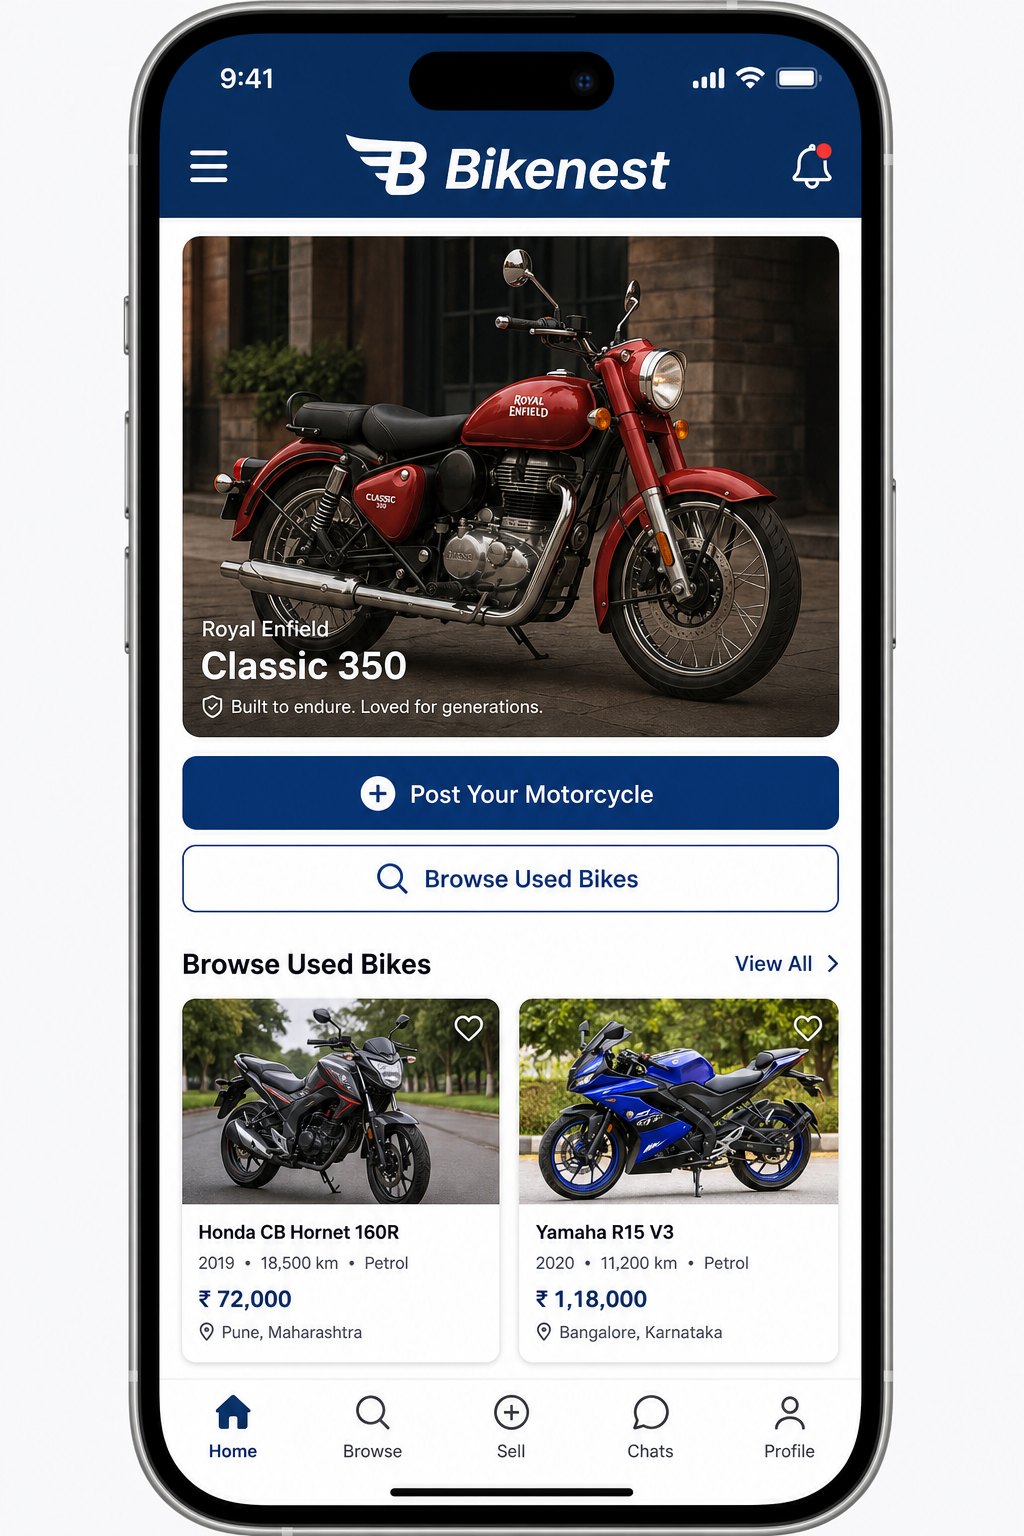
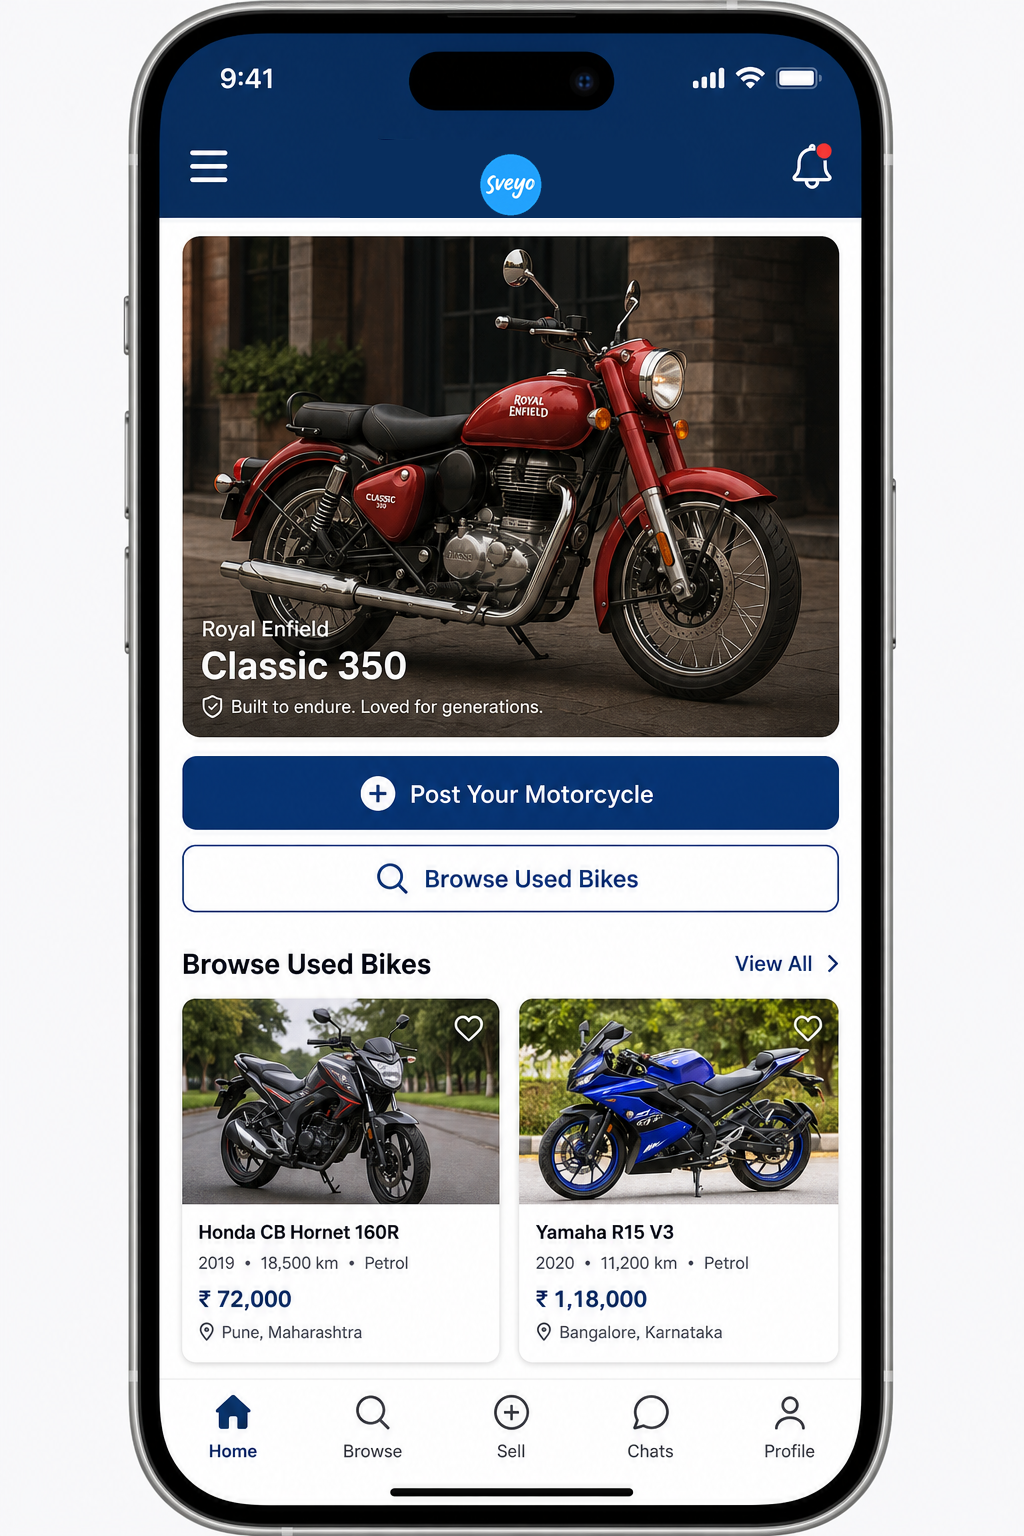
sveyo changes

Changed region(s): [[0.3438, 0.0625, 0.6562, 0.1562]]

diff --git a/index.html b/index.html
@@ -9,13 +9,13 @@
   <link rel="preconnect" href="https://fonts.gstatic.com" crossorigin>
   <link href="https://fonts.googleapis.com/css2?family=DM+Serif+Display:ital@0;1&family=Inter:wght@400;500;600;700&display=swap" rel="stylesheet">
   <link rel="stylesheet" href="css/styles.css">
-  <link rel="icon" href="images/bikenestlogo.jpeg" type="image/jpeg">
+  <link rel="icon" href="images/sveyo%20logo.jpeg" type="image/jpeg" >
 </head>
 <body>
   <header class="site-header">
     <nav class="nav container" aria-label="Main navigation">
       <a href="index.html" class="logo" aria-label="Bikenest home">
-        <img src="images/bikenestlogo.jpeg" alt="" class="logo-img">
+        <img src="images/sveyo-bikenest-logo.png" alt="" class="logo-img">
       </a>
 
       <button class="nav-toggle" type="button" aria-expanded="false" aria-controls="nav-menu" aria-label="Open menu">
@@ -26,6 +26,7 @@
 
       <ul id="nav-menu" class="nav-links">
         <li><a href="browse.html">Browse</a></li>
+        <li><a href="#across-india">Across India</a></li>
         <li><a href="#how-it-works">How it works</a></li>
         <li><a href="#features">Features</a></li>
         <li><a href="#stories">Stories</a></li>
@@ -55,7 +56,7 @@
                 App Store
               </span>
             </a>
-            <a href="#" class="store-badge store-badge--google" id="hero-play-store" aria-label="Get it on Google Play">
+            <a href="https://play.google.com/store/apps/details?id=com.sveyo.app" class="store-badge store-badge--google" id="hero-play-store" target="_blank" rel="noopener noreferrer" aria-label="Get it on Google Play">
               <svg viewBox="0 0 24 24" aria-hidden="true"><path d="M3.609 1.814L13.792 12 3.61 22.186a1.003 1.003 0 0 1-.601-.918V2.732a1.003 1.003 0 0 1 .6-.918zm4.594 12.593l2.042 2.042-6.378 3.704a1.003 1.003 0 0 1-1.453-.892v-.001l5.789-4.853zm-1.18-1.18L3.61 3.814l5.789 4.853-2.376 2.376zm11.406 5.703l-2.698 1.563-2.42-2.42 2.42-2.42 2.698 1.563a1.003 1.003 0 0 1 0 1.714z"/></svg>
               <span>
                 <small>Get it on</small>
@@ -91,6 +92,32 @@
           <strong>Meet &amp; ride</strong>
           <span>Inspect the bike before you buy</span>
         </article>
+      </div>
+    </section>
+
+    <section id="across-india" class="section reach">
+      <div class="container">
+        <div class="section-head section-head--center">
+          <p class="eyebrow">Pan-India C2C</p>
+          <h2>India’s first direct used-bike platform</h2>
+          <p class="section-lead">Buy, sell, and find accessories from Kashmir to Kanyakumari — real owners, no dealers, no brokers.</p>
+        </div>
+        <div class="reach-grid">
+          <figure class="reach-card reach-card--product">
+            <img src="images/sveyo%20c2c.jpeg" alt="Sveyo app showing India’s first direct C2C used bike platform" width="720" height="1000" loading="lazy">
+            <figcaption>
+              <h3>Direct C2C marketplace</h3>
+              <p>List a bike, browse used rides, and shop accessories and bike care in one app.</p>
+            </figcaption>
+          </figure>
+          <figure class="reach-card reach-card--map">
+            <img src="images/sveyo%20india.jpeg" alt="Map of India showing Sveyo coverage from Kashmir to Kanyakumari" width="1000" height="1000" loading="lazy">
+            <figcaption>
+              <h3>Kashmir to Kanyakumari</h3>
+              <p>A pan-India platform — list locally and connect with buyers and sellers anywhere in the country.</p>
+            </figcaption>
+          </figure>
+        </div>
       </div>
     </section>
 
@@ -233,7 +260,7 @@
                 App Store
               </span>
             </a>
-            <a href="#" class="store-badge store-badge--light store-badge--google" id="download-play-store" aria-label="Get it on Google Play">
+            <a href="https://play.google.com/store/apps/details?id=com.sveyo.app" class="store-badge store-badge--light store-badge--google" id="download-play-store" target="_blank" rel="noopener noreferrer" aria-label="Get it on Google Play">
               <svg viewBox="0 0 24 24" aria-hidden="true"><path d="M3.609 1.814L13.792 12 3.61 22.186a1.003 1.003 0 0 1-.601-.918V2.732a1.003 1.003 0 0 1 .6-.918zm4.594 12.593l2.042 2.042-6.378 3.704a1.003 1.003 0 0 1-1.453-.892v-.001l5.789-4.853zm-1.18-1.18L3.61 3.814l5.789 4.853-2.376 2.376zm11.406 5.703l-2.698 1.563-2.42-2.42 2.42-2.42 2.698 1.563a1.003 1.003 0 0 1 0 1.714z"/></svg>
               <span>
                 <small>Get it on</small>
@@ -253,12 +280,13 @@
     <div class="container footer-grid">
       <div class="footer-brand">
         <a href="index.html" class="logo logo--footer">
-          <img src="images/bikenestlogo.jpeg" alt="" class="logo-img">
+          <img src="images/sveyo-bikenest-logo.png" alt="" class="logo-img">
         </a>
         <p>Customer-to-Customer Only.<br>No Dealers. No Brokers.</p>
       </div>
       <nav class="footer-nav" aria-label="Footer navigation">
         <a href="browse.html">Browse bikes</a>
+        <a href="#across-india">Across India</a>
         <a href="#how-it-works">How it works</a>
         <a href="#features">Features</a>
         <a href="#download">Download app</a>

diff --git a/css/styles.css b/css/styles.css
@@ -20,7 +20,7 @@
   --radius-sm: 10px;
   --font-sans: "Inter", system-ui, -apple-system, sans-serif;
   --font-serif: "DM Serif Display", Georgia, serif;
-  --header-height: 72px;
+  --header-height: 92px;
 }
 
 *,
@@ -67,8 +67,7 @@ button {
   position: sticky;
   top: 0;
   z-index: 100;
-  background: rgba(255, 255, 255, 0.92);
-  backdrop-filter: blur(12px);
+  background: var(--white);
   border-bottom: 1px solid var(--gray-200);
 }
 
@@ -87,9 +86,11 @@ button {
 
 .logo-img {
   display: block;
-  height: 48px;
+  height: 72px;
   width: auto;
-  max-width: min(220px, 55vw);
+  max-width: min(420px, 72vw);
+  object-fit: contain;
+  background: var(--white);
 }
 
 .nav-links {
@@ -353,6 +354,60 @@ button {
   color: var(--gray-500);
 }
 
+/* Pan-India / C2C reach */
+.reach {
+  background: linear-gradient(180deg, var(--blue-50) 0%, var(--white) 100%);
+}
+
+.reach-grid {
+  display: grid;
+  grid-template-columns: repeat(2, minmax(0, 1fr));
+  gap: 1.5rem;
+  align-items: start;
+}
+
+.reach-card {
+  display: flex;
+  flex-direction: column;
+  height: auto;
+  margin: 0;
+  background: var(--white);
+  border-radius: var(--radius);
+  overflow: hidden;
+  border: 1px solid var(--gray-200);
+  box-shadow: var(--shadow-md);
+}
+
+.reach-card img {
+  display: block;
+  width: 100%;
+  height: auto;
+  object-fit: contain;
+}
+
+.reach-card--product img {
+  aspect-ratio: 1 / 1;
+  object-fit: cover;
+  object-position: center 60%;
+}
+
+.reach-card figcaption {
+  padding: 1.25rem 1.5rem 1.5rem;
+  border-top: 1px solid var(--gray-200);
+}
+
+.reach-card h3 {
+  margin: 0 0 0.35rem;
+  font-size: 1.1rem;
+  color: var(--blue-900);
+}
+
+.reach-card p {
+  margin: 0;
+  font-size: 0.925rem;
+  color: var(--gray-700);
+}
+
 /* Sections */
 .section {
   padding: 5rem 0;
@@ -364,6 +419,10 @@ button {
 
 .section-head--center {
   text-align: center;
+}
+
+.section-head--center .section-lead {
+  margin-inline: auto;
 }
 
 .section-head h2 {
@@ -681,7 +740,7 @@ button {
   width: 100%;
   height: 100%;
   min-height: 280px;
-  object-fit: cover;
+  object-fit: contain;
   border-radius: var(--radius);
   box-shadow: var(--shadow-lg);
 }
@@ -705,8 +764,11 @@ button {
 }
 
 .logo--footer .logo-img {
-  height: 44px;
-  border-radius: 6px;
+  height: 64px;
+  max-width: min(360px, 85vw);
+  padding: 0.4rem 0.55rem;
+  background: var(--white);
+  border-radius: 8px;
 }
 
 .footer-brand p {
@@ -758,7 +820,8 @@ button {
   .hero-grid,
   .features-grid,
   .download-grid,
-  .app-showcase-grid {
+  .app-showcase-grid,
+  .reach-grid {
     grid-template-columns: 1fr;
   }
 
@@ -799,6 +862,14 @@ button {
 }
 
 @media (max-width: 720px) {
+  :root {
+    --header-height: 80px;
+  }
+
+  .logo-img {
+    height: 58px;
+  }
+
   .nav-toggle {
     display: flex;
   }

diff --git a/browse.html b/browse.html
@@ -9,13 +9,13 @@
   <link rel="preconnect" href="https://fonts.gstatic.com" crossorigin>
   <link href="https://fonts.googleapis.com/css2?family=DM+Serif+Display:ital@0;1&family=Inter:wght@400;500;600;700&display=swap" rel="stylesheet">
   <link rel="stylesheet" href="css/styles.css">
-  <link rel="icon" href="images/bikenestlogo.jpeg" type="image/jpeg">
+  <link rel="icon" href="images/sveyo-bikenest-logo.png" type="image/png">
 </head>
 <body>
   <header class="site-header">
     <nav class="nav container" aria-label="Main navigation">
       <a href="index.html" class="logo" aria-label="Bikenest home">
-        <img src="images/bikenestlogo.jpeg" alt="" class="logo-img">
+        <img src="images/sveyo-bikenest-logo.png" alt="" class="logo-img">
       </a>
 
       <button class="nav-toggle" type="button" aria-expanded="false" aria-controls="nav-menu" aria-label="Open menu">
@@ -173,7 +173,7 @@
             <svg viewBox="0 0 24 24" aria-hidden="true"><path d="M18.71 19.5c-.83 1.24-1.71 2.45-3.05 2.47-1.34.03-1.77-.79-3.29-.79-1.53 0-2 .77-3.27.82-1.31.05-2.3-1.32-3.14-2.53C4.25 17 2.94 12.45 4.7 9.39c.87-1.52 2.43-2.48 4.12-2.51 1.28-.02 2.5.87 3.29.87.78 0 2.26-1.07 3.8-.91.65.03 2.47.26 3.64 1.98-.09.06-2.17 1.28-2.15 3.81.03 3.02 2.65 4.03 2.68 4.04-.03.07-.42 1.44-1.38 2.83M13 3.5c.73-.83 1.94-1.46 2.94-1.5.13 1.17-.34 2.35-1.04 3.19-.69.85-1.83 1.51-2.95 1.42-.15-1.15.41-2.35 1.05-3.11z"/></svg>
             <span><small>Download on the</small>App Store</span>
           </a>
-          <a href="#" class="store-badge store-badge--google" data-store="playStore" aria-label="Get it on Google Play">
+          <a href="https://play.google.com/store/apps/details?id=com.sveyo.app" class="store-badge store-badge--google" data-store="playStore" target="_blank" rel="noopener noreferrer" aria-label="Get it on Google Play">
             <svg viewBox="0 0 24 24" aria-hidden="true"><path d="M3.609 1.814L13.792 12 3.61 22.186a1.003 1.003 0 0 1-.601-.918V2.732a1.003 1.003 0 0 1 .6-.918zm4.594 12.593l2.042 2.042-6.378 3.704a1.003 1.003 0 0 1-1.453-.892v-.001l5.789-4.853zm-1.18-1.18L3.61 3.814l5.789 4.853-2.376 2.376zm11.406 5.703l-2.698 1.563-2.42-2.42 2.42-2.42 2.698 1.563a1.003 1.003 0 0 1 0 1.714z"/></svg>
             <span><small>Get it on</small>Google Play</span>
           </a>
@@ -186,7 +186,7 @@
     <div class="container footer-grid">
       <div class="footer-brand">
         <a href="index.html" class="logo logo--footer">
-          <img src="images/bikenestlogo.jpeg" alt="" class="logo-img">
+          <img src="images/sveyo-bikenest-logo.png" alt="" class="logo-img">
         </a>
         <p>Customer-to-Customer Only.<br>No Dealers. No Brokers.</p>
       </div>

diff --git a/privacy.html b/privacy.html
@@ -9,13 +9,13 @@
   <link rel="preconnect" href="https://fonts.gstatic.com" crossorigin>
   <link href="https://fonts.googleapis.com/css2?family=DM+Serif+Display:ital@0;1&family=Inter:wght@400;500;600;700&display=swap" rel="stylesheet">
   <link rel="stylesheet" href="css/styles.css">
-  <link rel="icon" href="images/bikenestlogo.jpeg" type="image/jpeg">
+  <link rel="icon" href="images/sveyo-bikenest-logo.png" type="image/png">
 </head>
 <body>
   <header class="site-header">
     <nav class="nav container" aria-label="Main navigation">
       <a href="index.html" class="logo" aria-label="Bikenest home">
-        <img src="images/bikenestlogo.jpeg" alt="" class="logo-img">
+        <img src="images/sveyo-bikenest-logo.png" alt="" class="logo-img">
       </a>
 
       <button class="nav-toggle" type="button" aria-expanded="false" aria-controls="nav-menu" aria-label="Open menu">
@@ -103,7 +103,7 @@
     <div class="container footer-grid">
       <div class="footer-brand">
         <a href="index.html" class="logo logo--footer">
-          <img src="images/bikenestlogo.jpeg" alt="" class="logo-img">
+          <img src="images/sveyo-bikenest-logo.png" alt="" class="logo-img">
         </a>
         <p>Customer-to-Customer Only.<br>No Dealers. No Brokers.</p>
       </div>

diff --git a/terms.html b/terms.html
@@ -9,13 +9,13 @@
   <link rel="preconnect" href="https://fonts.gstatic.com" crossorigin>
   <link href="https://fonts.googleapis.com/css2?family=DM+Serif+Display:ital@0;1&family=Inter:wght@400;500;600;700&display=swap" rel="stylesheet">
   <link rel="stylesheet" href="css/styles.css">
-  <link rel="icon" href="images/bikenestlogo.jpeg" type="image/jpeg">
+  <link rel="icon" href="images/sveyo-bikenest-logo.png" type="image/png">
 </head>
 <body>
   <header class="site-header">
     <nav class="nav container" aria-label="Main navigation">
       <a href="index.html" class="logo" aria-label="Bikenest home">
-        <img src="images/bikenestlogo.jpeg" alt="" class="logo-img">
+        <img src="images/sveyo-bikenest-logo.png" alt="" class="logo-img">
       </a>
 
       <button class="nav-toggle" type="button" aria-expanded="false" aria-controls="nav-menu" aria-label="Open menu">
@@ -115,7 +115,7 @@
     <div class="container footer-grid">
       <div class="footer-brand">
         <a href="index.html" class="logo logo--footer">
-          <img src="images/bikenestlogo.jpeg" alt="" class="logo-img">
+          <img src="images/sveyo-bikenest-logo.png" alt="" class="logo-img">
         </a>
         <p>Customer-to-Customer Only.<br>No Dealers. No Brokers.</p>
       </div>

diff --git a/js/main.js b/js/main.js
@@ -4,7 +4,7 @@
  */
 const APP_LINKS = {
   appStore: "#",
-  playStore: "#",
+  playStore: "https://play.google.com/store/apps/details?id=com.sveyo.app",
 };
 
 document.querySelectorAll("[data-store]").forEach((el) => {
